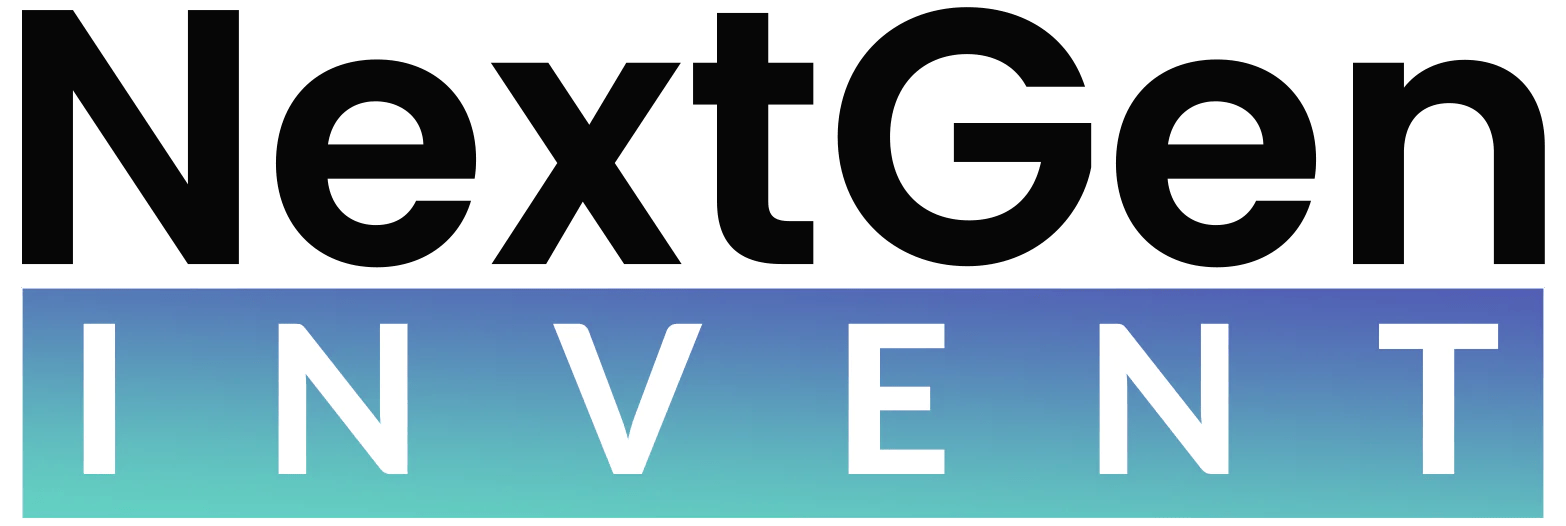
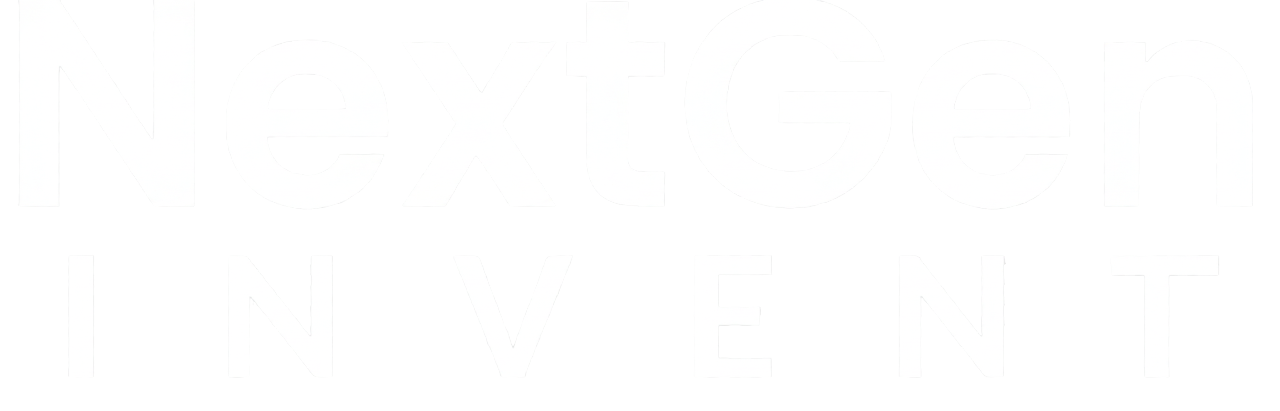
Fix Trusted By

diff --git a/components/LogoCarousel.jsx b/components/LogoCarousel.jsx
@@ -1,8 +1,10 @@
 'use client';
 import React from 'react';
 import COMPANY_LOGOS from '../data/companyLogos';
+import { useTheme } from '../contexts/ThemeContext';
 
 export default function LogoCarousel() {
+  const { theme } = useTheme();
   // Create 2 identical sets of logos, each repeated 4 times to ensure sufficient width for seamless scrolling
   const set = [...COMPANY_LOGOS, ...COMPANY_LOGOS, ...COMPANY_LOGOS, ...COMPANY_LOGOS];
   const display = [...set, ...set];
@@ -14,7 +16,13 @@ export default function LogoCarousel() {
         <div className="flex gap-10 items-center animate-marquee py-4">
           {display.map((l, i) => (
             <a key={i} href={l.href} target="_blank" rel="noreferrer" className="flex items-center justify-center p-6 rounded-xl glass border border-divider hover:bg-button-hover transition-colors duration-200 min-w-max">
-              <img src={l.src} alt={l.alt} onError={handleImgError} className="w-32 h-32 object-contain" />
+              <img
+                src={l.src}
+                alt={l.alt}
+                onError={handleImgError}
+                className={`w-32 h-32 object-contain transition-all duration-300 ${theme === 'dark' ? 'brightness-0 invert' : 'brightness-0'
+                  }`}
+              />
             </a>
           ))}
         </div>

diff --git a/data/companyLogos.js b/data/companyLogos.js
@@ -6,7 +6,7 @@ const COMPANY_LOGOS = [
   },
   {
     "href": "https://www.artofliving.org",
-    "src": "/assets/artofliving.jpg",
+    "src": "/assets/artofliving.png",
     "alt": "Art of Living"
   },
   {
